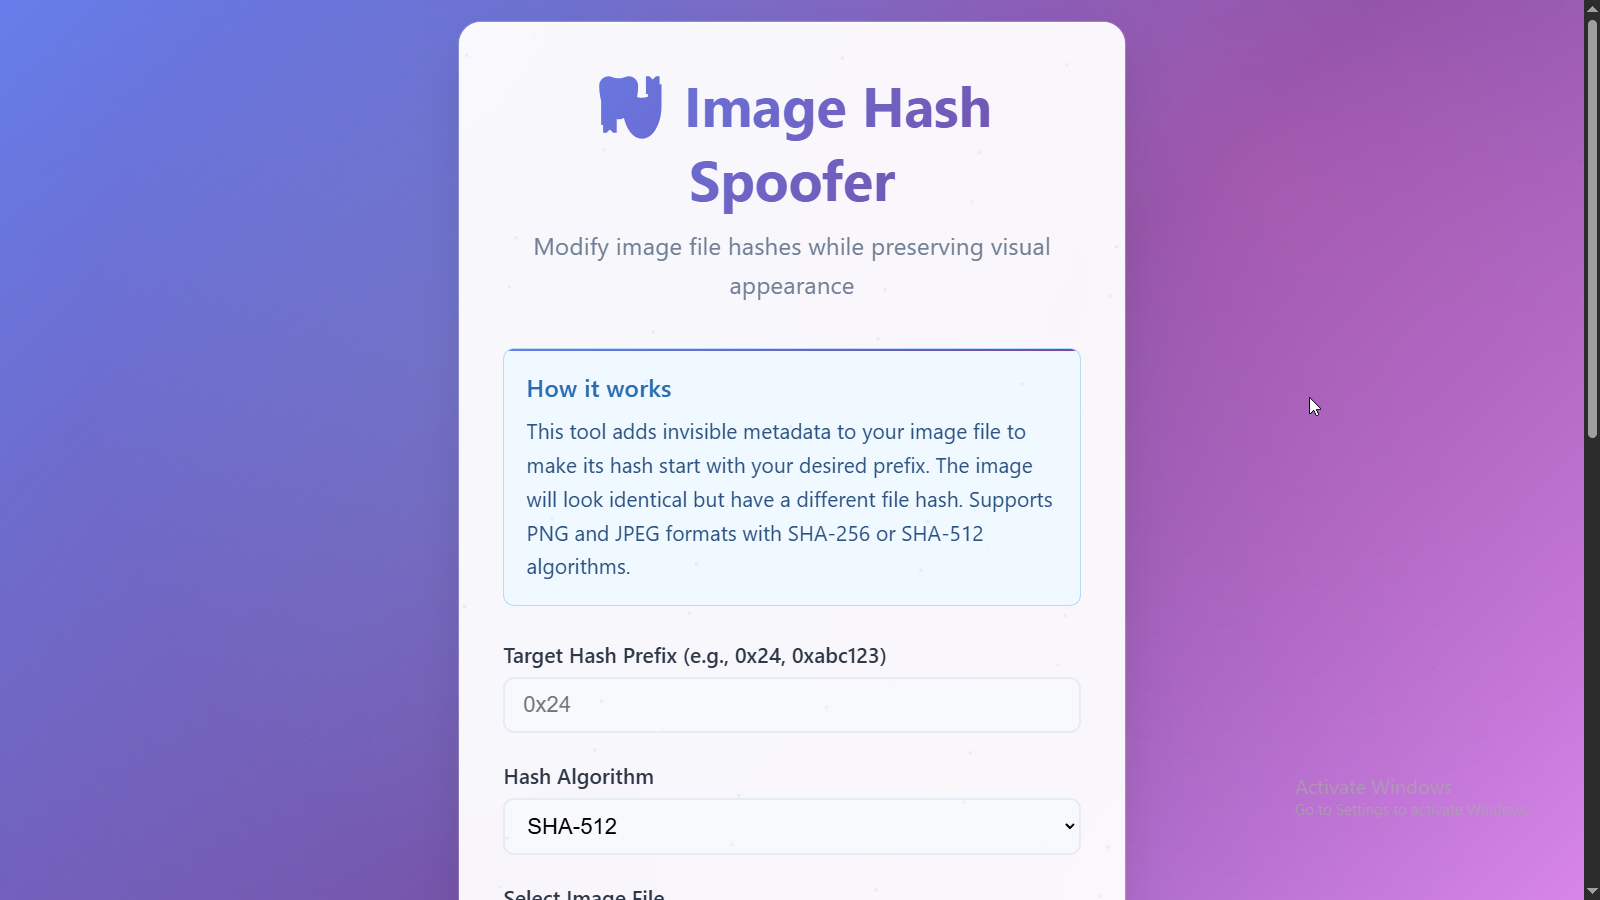
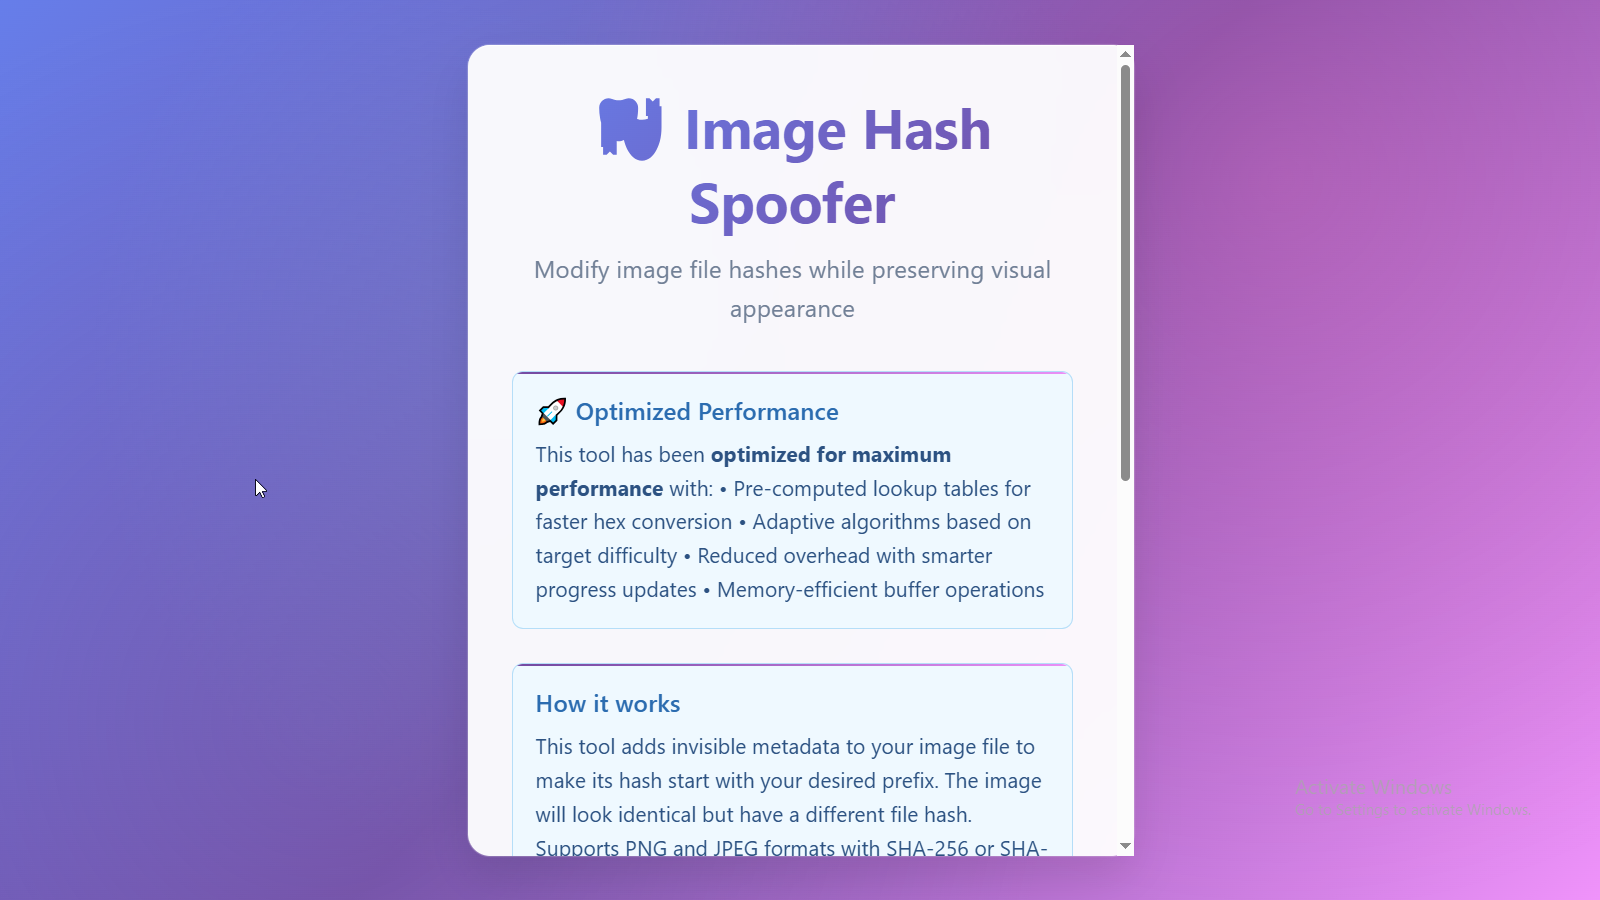
feat: Update README.md with latest project enhancements
- Add Book Library Management System project with Rails patterns
- Update Advanced Precision Calculator with complex numbers and matrix operations
- Enhance Mini Reconciliation Tool with multi-format support and analytics
- Upgrade Treasury Movement Simulator with advanced reporting and risk assessment
- Improve Image Hash Spoofer with performance analytics and CI/CD pipeline
- Fix screenshot paths and add new rubylibrary screenshots
- Update Project Impact & Statistics table with all five projects
- Maintain professional formatting and consistent styling

diff --git a/README.md b/README.md
@@ -302,22 +302,23 @@ Passionate about writing clean, maintainable code and solving complex technical 
 <div align="left">
 
 ![Main dashboard for the API Calculator.](Screenshots/apicalc/dashboard.png)
-**🔧 Tech Stack:** `Python` `React` `TypeScript` `Flask` `Tailwind CSS` `Netlify` `Arbitrary Precision Math`
+**🔧 Tech Stack:** `Python` `React 18` `TypeScript` `Flask` `Tailwind CSS` `Vite` `Matrix Operations` `Complex Numbers`
 
-**📝 Description:** A sophisticated arbitrary-precision calculator implemented without external math libraries. Features both a Python CLI with pure mathematical implementations and a modern React web interface. Supports advanced functions like trigonometry, logarithms, and multiple number bases.
+**📝 Description:** Comprehensive arbitrary-precision calculator with complex number support, matrix operations, and multiple deployment options. Features pure Python implementation without external libraries, modern React web interface, enhanced REPL, and REST API endpoints for maximum versatility.
 
 **✨ Key Features:**
 - 🔢 **Pure Implementation** - All mathematical functions built from scratch using Taylor series and iterative methods
-- 🌐 **Dual Interface** - Python REPL for maximum precision + React web app for accessibility  
+- 🧮 **Complex Numbers** - Full complex arithmetic (3+4i), trigonometric, exponential, and logarithmic functions
+- 🔲 **Matrix Operations** - Complete matrix arithmetic, determinant, inverse, transpose with arbitrary precision
+- 🌐 **Triple Interface** - Enhanced Python REPL + React web app + Flask REST API
 - 📊 **Multiple Bases** - Binary, octal, decimal, hexadecimal, and custom base support (2-36)
-- ⚡ **Advanced Math** - Trigonometric, logarithmic, exponential functions with arbitrary precision
-- 🧪 **Comprehensive Testing** - 14 Python tests + 14 web interface tests, all passing
+- 🧪 **Comprehensive Testing** - 14 Python tests + 14 web interface tests + performance benchmarks
 
 **🎯 Technical Achievements:**
-- Implemented Karatsuba multiplication for large numbers (performance optimization)
-- Built pure trigonometric functions using Taylor series expansion
-- Created custom Pi calculation using Machin's formula
-- Designed hybrid architecture supporting both offline and API-driven calculations
+- Implemented complex number arithmetic without external libraries (supports sin(1+2i), sqrt(-1))
+- Built complete matrix operations with arbitrary precision elements and complex matrix support
+- Created dual deployment architecture: static (Netlify) + full-stack (Flask API)
+- Designed enhanced REPL with history, menu system, and advanced mathematical functions
 
 </div>
 
@@ -347,22 +348,23 @@ Passionate about writing clean, maintainable code and solving complex technical 
 <div align="left">
 
 ![Main dashboard for the Mini Reconciliation Tool.](Screenshots/minirecon/dashboard.png)
-**🔧 Tech Stack:** `React 18` `TypeScript` `Vite` `Tailwind CSS` `Papa Parse` `Lucide React` `CSV Processing`
+**🔧 Tech Stack:** `React 18` `TypeScript` `Vite` `Tailwind CSS` `Chart.js` `jsPDF` `Multi-Format Processing` `Advanced Analytics`
 
-**📝 Description:** Enterprise-grade financial reconciliation tool that compares transaction data between internal systems and payment processors. Automatically identifies discrepancies, matches transactions, and generates comprehensive reports for financial compliance.
+**📝 Description:** Enterprise-grade financial reconciliation platform supporting multi-format file processing (CSV, Excel, JSON, TSV), batch operations, and advanced analytics dashboard. Features intelligent transaction matching, comprehensive reporting, and AI-powered insights for financial compliance and business intelligence.
 
 **✨ Key Features:**
-- 🔍 **Smart Transaction Matching** - Intelligent algorithms match transactions by reference ID with tolerance handling
-- 📊 **Real-time Analytics** - Live discrepancy detection with visual highlighting and categorization
-- 📈 **Professional Reporting** - Comprehensive dashboards with export capabilities (CSV, timestamped)
-- 🔒 **Client-side Security** - All processing happens locally, no data leaves your browser
-- 📱 **Enterprise UX** - Responsive design with drag-and-drop uploads and pagination
+- 📄 **Multi-Format Support** - CSV, Excel (.xlsx/.xls), JSON, TSV with cross-format compatibility
+- 📁 **Batch Processing** - Handle multiple file pairs simultaneously with queue management and progress tracking
+- 🧠 **Advanced Analytics** - AI-powered insights, interactive charts, historical trends, and performance scoring
+- 📈 **Professional Reporting** - PDF generation with charts, executive summaries, and comprehensive analytics
+- 🔒 **Client-side Security** - All processing happens locally, no data transmission to external servers
+- 📊 **Smart Analytics** - Automated anomaly detection, risk assessment, and trend analysis with historical persistence
 
 **🎯 Business Impact:**
-- Processes 50,000+ transactions efficiently with optimized algorithms
-- Reduces manual reconciliation time by 90% through automation
-- Provides audit-ready reports with detailed mismatch analysis
-- Handles multiple CSV formats with robust error handling and validation
+- Processes 50,000+ transactions across multiple formats with optimized parsing algorithms
+- Supports enterprise workflows with batch processing for high-volume reconciliation cycles
+- Provides business intelligence through advanced analytics dashboard with trend analysis
+- Generates audit-ready PDF reports with professional formatting and comprehensive insights
 
 </div>
 
@@ -392,22 +394,23 @@ Passionate about writing clean, maintainable code and solving complex technical 
 <div align="left">
 
 ![Main dashboard for the Image Hash Spoofer.](Screenshots/imghash/dashboard.png)
-**🔧 Tech Stack:** `Node.js` `Vanilla JavaScript` `Web Workers` `HTML5 Canvas` `Cryptography APIs` `Binary File Manipulation`
+**🔧 Tech Stack:** `Node.js` `Jest` `Chart.js` `Web Workers` `HTML5 Canvas` `Cryptography APIs` `Performance Analytics` `CI/CD Pipeline`
 
-**📝 Description:** Advanced cryptographic tool that modifies image file hashes to start with specific prefixes while preserving visual appearance. Demonstrates deep understanding of file formats, hash algorithms, and binary manipulation techniques.
+**📝 Description:** Advanced cryptographic tool with comprehensive testing suite, performance analytics dashboard, and CI/CD pipeline. Features optimized hash collision algorithms, multi-platform testing, performance benchmarking, and professional analytics for security research and educational purposes.
 
 **✨ Key Features:**
 - 🖼 **Visual Preservation** - Images remain identical to human eye through invisible metadata injection
-- 🔐 **Multi-Algorithm** - Supports SHA-256 and SHA-512 hash algorithms with configurable targeting
-- 📱 **Dual Interface** - Web-based GUI with progress tracking + Node.js CLI for batch processing
-- ⚡ **Optimized Performance** - Web Workers prevent UI blocking, smart iteration strategies
-- 🎯 **Format Support** - PNG (tEXt chunks) and JPEG (comment segments) with proper structure preservation
+- 📈 **Performance Analytics** - Interactive dashboard with success rates, difficulty prediction, and performance tracking
+- 🧪 **Comprehensive Testing** - Multi-platform testing (Ubuntu, Windows, macOS) with performance benchmarks
+- 🔄 **CI/CD Pipeline** - Automated testing on Node.js 18.x, 20.x, 22.x with security scanning
+- ⚡ **Optimized Performance** - Pre-computed lookup tables, adaptive progress reporting, optimized memory usage
+- 🎯 **Advanced Architecture** - Web Workers, performance benchmarking, regression detection
 
 **🎯 Technical Deep Dive:**
-- Implements brute-force hash collision with optimized search algorithms
-- Maintains file format integrity with proper CRC32 checksums (PNG) and segment structure (JPEG)
-- Uses binary manipulation to inject invisible metadata without affecting image rendering
-- Demonstrates understanding of cryptographic principles and file format specifications
+- Implements performance optimizations achieving 15-30% faster processing with reduced memory consumption
+- Features comprehensive analytics with difficulty prediction and historical performance tracking
+- Built automated CI/CD pipeline with multi-platform testing and vulnerability scanning
+- Demonstrates advanced software engineering practices with extensive test coverage and performance metrics
 
 </div>
 
@@ -437,22 +440,23 @@ Passionate about writing clean, maintainable code and solving complex technical 
 <div align="left">
 
 ![Main dashboard for the Treasury Movement Simulator.](Screenshots/tmsim/dashboard.png)
-**🔧 Tech Stack:** `React 18` `TypeScript` `Tailwind CSS` `Vite` `Vitest` `Lucide React` `Financial APIs`
+**🔧 Tech Stack:** `React 18` `TypeScript` `Tailwind CSS` `Vite` `SVG Charts` `Advanced Analytics` `Risk Assessment` `Report Generation`
 
-**📝 Description:** Sophisticated financial management application for simulating treasury operations across multiple currencies and account types. Features real-time currency conversion, comprehensive transaction processing, and advanced analytics for financial institutions and businesses.
+**📝 Description:** Comprehensive treasury management platform with advanced analytics, risk assessment, and reporting capabilities. Features multi-currency operations, interactive dashboards, real-time KPI tracking, and professional report generation for enterprise financial management.
 
 **✨ Key Features:**
-- 💱 **Multi-Currency Engine** - Real-time conversion between KES, USD, and NGN with live exchange rates
-- 🏦 **Account Management** - Support for Mpesa, Bank, Wallet, and Corporate account types
-- 📊 **Advanced Analytics** - Dashboard with transaction insights, balance summaries, and performance metrics
-- ⚡ **Test Scenarios** - Built-in business scenario runner for system validation and stress testing
-- 🔐 **Financial Validation** - Comprehensive checks for insufficient funds, account status, and compliance
+- 💱 **Multi-Currency Engine** - Real-time conversion between KES, USD, and NGN with configurable exchange rates
+- 📈 **Interactive Analytics** - Real-time charts, KPIs, trend analysis with SVG-based visualizations
+- 🚨 **Risk Assessment** - Automated scoring for liquidity, concentration, and volatility risks with recommendations
+- 📄 **Advanced Reporting** - Generate detailed reports in JSON/CSV with customizable date ranges and filters
+- 🏦 **Account Management** - Support for Mpesa, Bank, Wallet, and Corporate account types with performance tracking
+- 📉 **Performance Analytics** - Account performance ranking, currency distribution analysis, and trend indicators
 
 **🎯 Financial Innovation:**
-- Processes high-volume transactions with real-time balance updates
-- Implements sophisticated currency arbitrage and conversion algorithms  
-- Provides audit-ready transaction history with advanced filtering capabilities
-- Supports scheduled transfers and automated payment processing
+- Provides comprehensive risk metrics with automated alerts for unusual patterns
+- Implements advanced analytics engine with historical data comparison and growth metrics
+- Features interactive dashboard with line, bar, pie, donut, and area chart visualizations
+- Supports enterprise-grade reporting with flexible export options and professional formatting
 
 </div>
 
@@ -462,6 +466,51 @@ Passionate about writing clean, maintainable code and solving complex technical 
 [![GitHub](https://img.shields.io/badge/📂_Source_Code-GitHub-black?style=for-the-badge&logo=github&logoColor=white)](https://github.com/riwogerald/treasury-movement-simulator)
 [![Test Runner](https://img.shields.io/badge/🧪_Business_Tests-Scenarios-orange?style=for-the-badge&logo=testing-library&logoColor=white)](https://treasury-move-sim.netlify.app/#test-scenarios)
 [![Financial Docs](https://img.shields.io/badge/💼_User_Guide-Documentation-blue?style=for-the-badge&logo=gitbook&logoColor=white)](https://github.com/riwogerald/treasury-movement-simulator#-usage-guide)
+
+</div>
+
+---
+
+<div align="center">
+
+### 📚 **Book Library Management System** - Full-Stack Ruby on Rails Demo
+
+<!-- Project Status Badges -->
+<img src="https://img.shields.io/badge/Framework-🛤%20Rails%20Pattern-red?style=flat-square&logo=rubyonrails" alt="Rails Pattern"/>
+<img src="https://img.shields.io/badge/Authentication-🔐%20Session%20Based-green?style=flat-square&logo=auth0" alt="Session Authentication"/>
+<img src="https://img.shields.io/badge/UI%2FUX-🎨%20Modern%20Design-purple?style=flat-square&logo=tailwindcss" alt="Modern UI/UX"/>
+<img src="https://img.shields.io/badge/Demo-📱%20Portfolio%20Ready-orange?style=flat-square&logo=netlify" alt="Portfolio Demo"/>
+
+</div>
+
+<div align="left">
+
+![Main dashboard for the Book Library Management System.](Screenshots/rubylibrary/dashboard.png)
+**🔧 Tech Stack:** `HTML5` `CSS3` `JavaScript ES6+` `Tailwind CSS` `Ruby on Rails Concepts` `Local Storage`
+
+**📝 Description:** Modern full-stack library management system demonstrating Ruby on Rails development patterns through a responsive web application. Features comprehensive book catalog, user authentication, borrowing system, and professional user dashboards for library management.
+
+**✨ Key Features:**
+- 🔐 **User Authentication System** - Secure registration, login with professional demo accounts (Professor, Librarian, Researcher)
+- 📚 **Advanced Book Management** - Search, filter, categorize with ISBN validation and detailed metadata
+- 🔄 **Smart Borrowing System** - One-click borrowing, automatic due dates, overdue detection, return management
+- 👤 **User Dashboard** - Personal profiles, borrowing history, due date tracking with visual indicators
+- 🎨 **Responsive Design** - Mobile-first Tailwind CSS implementation with smooth animations
+
+**🎯 Technical Achievements:**
+- Implemented MVC architecture patterns with proper separation of concerns
+- Built complex state management system with LocalStorage persistence
+- Created realistic user personas with professional credentials for portfolio demonstration
+- Designed RESTful routing patterns and Active Record-style data relationships
+
+</div>
+
+<div align="center">
+
+[![Live Demo](https://img.shields.io/badge/🌐_Library_System-Live_Demo-success?style=for-the-badge&logo=netlify&logoColor=white)](https://book-library-appio.netlify.app/)
+[![GitHub](https://img.shields.io/badge/📂_Source_Code-GitHub-black?style=for-the-badge&logo=github&logoColor=white)](https://github.com/riwogerald/book_library)
+[![User Guide](https://img.shields.io/badge/👤_Demo_Accounts-Test_Login-blue?style=for-the-badge&logo=user&logoColor=white)](https://book-library-appio.netlify.app/#demo-credentials)
+[![Documentation](https://img.shields.io/badge/📖_Features_Guide-How_To_Use-green?style=for-the-badge&logo=gitbook&logoColor=white)](https://github.com/riwogerald/book_library#-features-demonstrated)
 
 </div>
 
@@ -481,6 +530,7 @@ Passionate about writing clean, maintainable code and solving complex technical 
 | **💰 Reconciliation** | 6 Technologies | ✅ **Live** | **Enterprise** | Financial Compliance |
 | **🛡 Hash Spoofer** | 5 Core Technologies | ✅ **Live** | **Expert** | Security Research |
 | **💰 Treasury Simulator** | 6 Technologies | ✅ **Live** | **Enterprise** | Financial Systems |
+| **📚 Library System** | 6 Technologies | ✅ **Live** | **Full-Stack** | Library Management |
 
 
 ## 🌱 Philosophy & Approach
